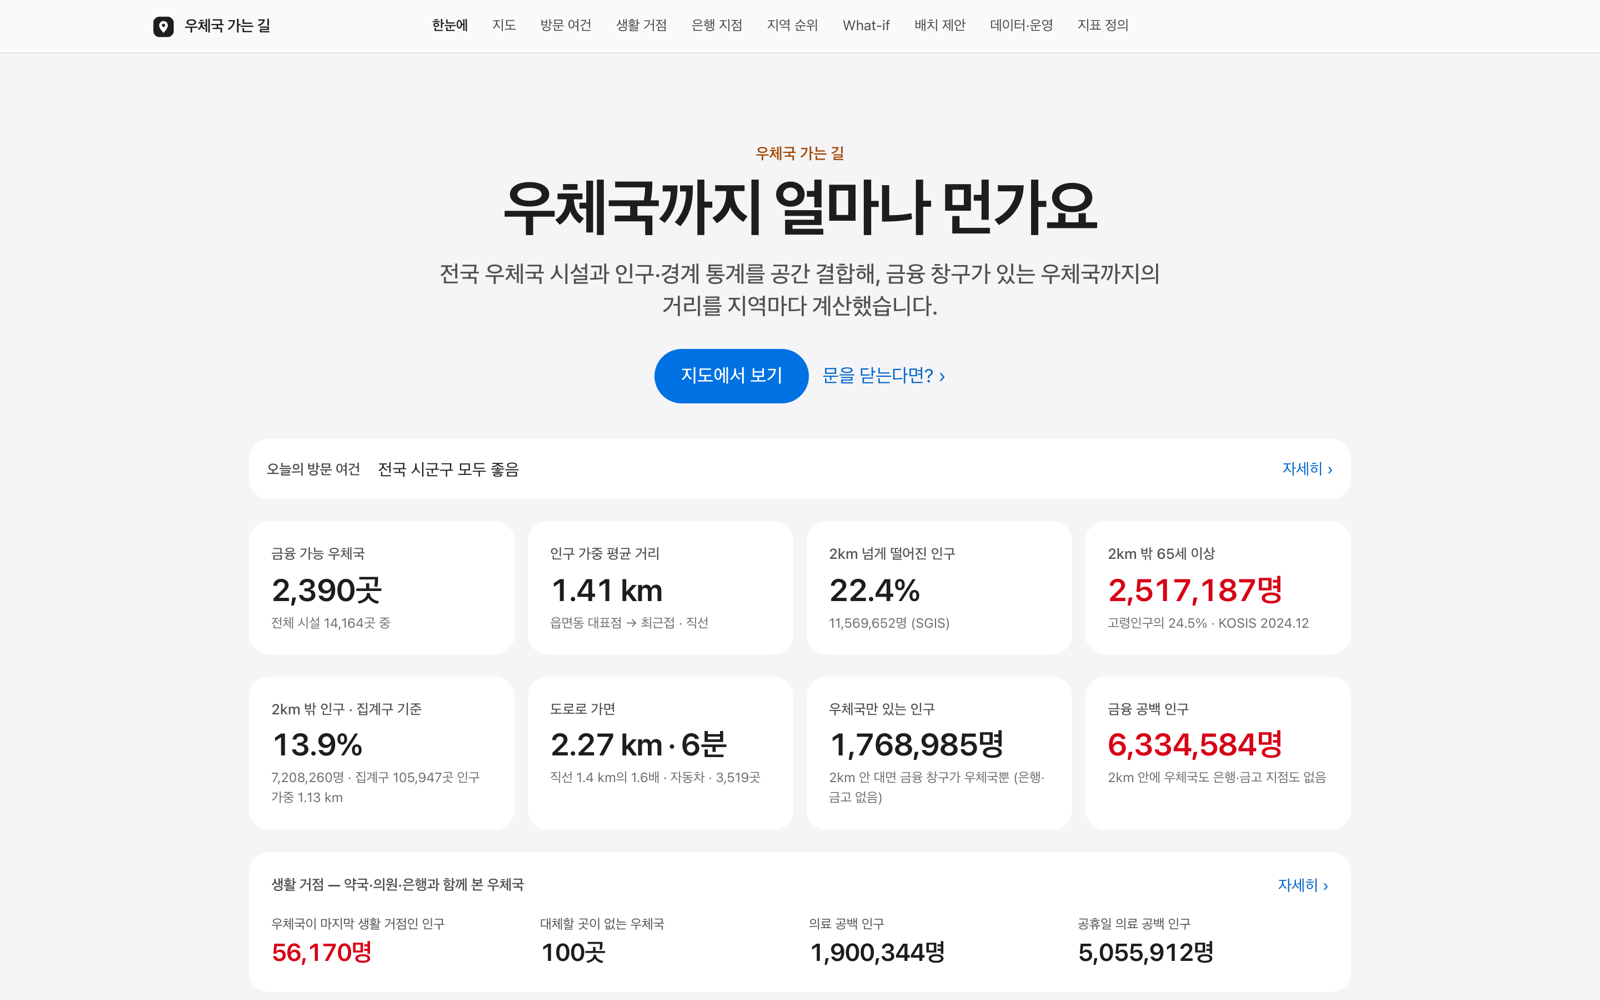
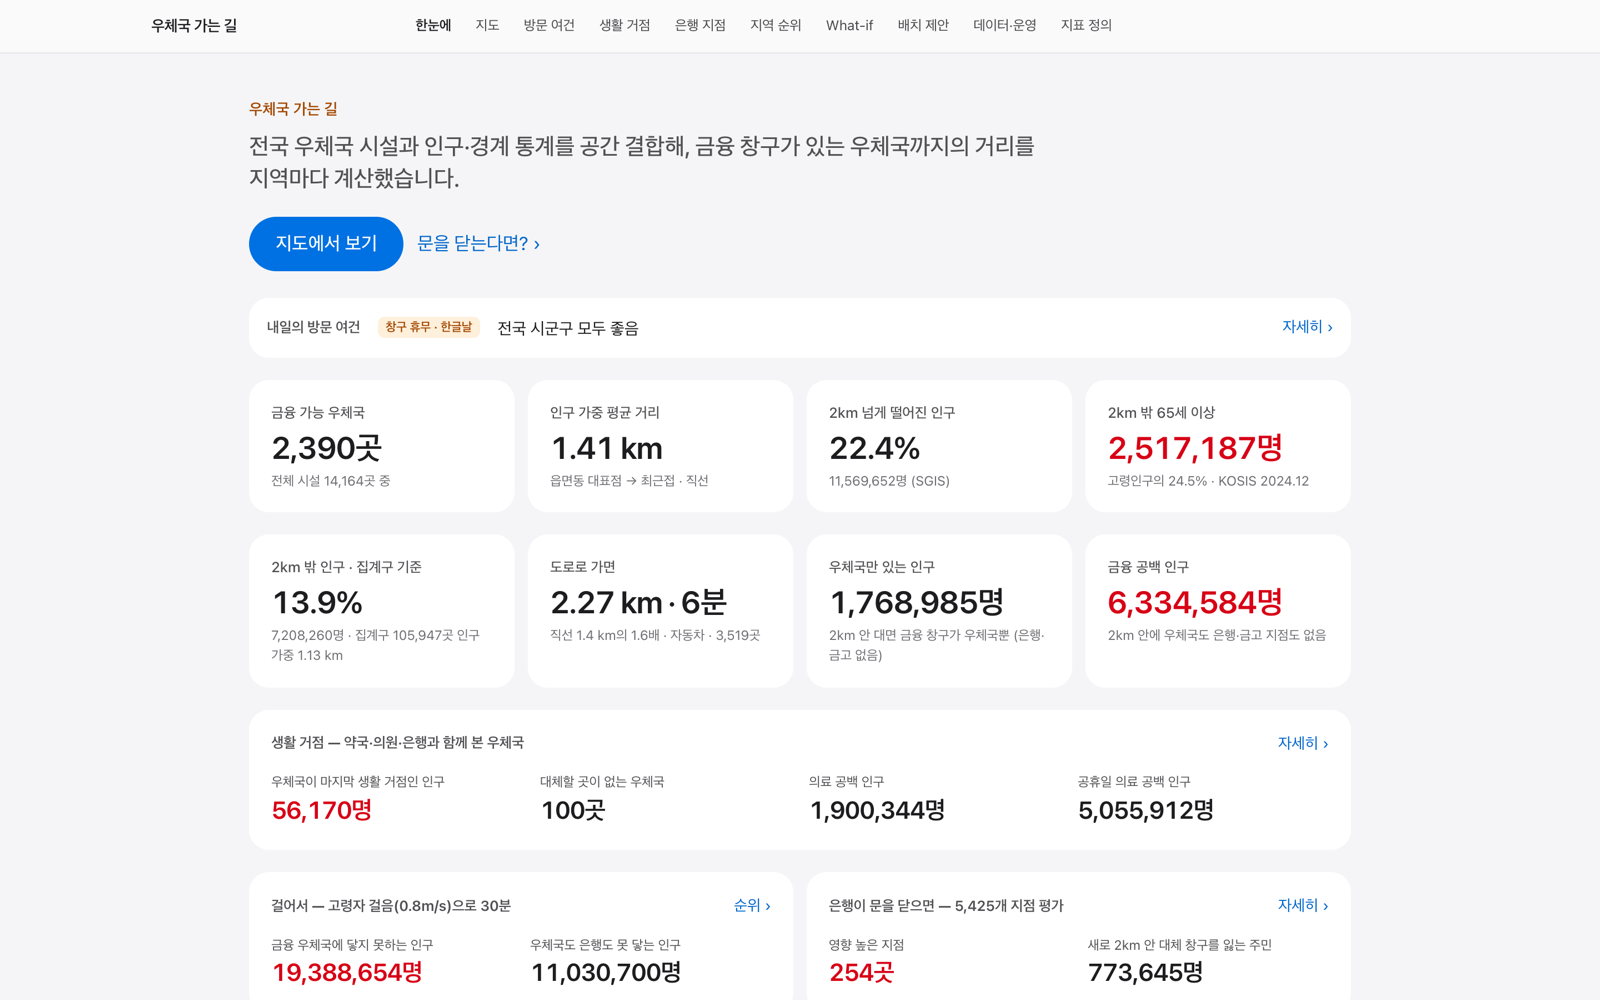
fix(web): 머리글 로고·큰 제목 문장 없애고 화면 머리 왼쪽 정렬
- 머리글의 '우체국 가는 길' 옆 이미지 제거(모바일에서도 글자로 표시)
- 모든 메뉴의 큰 제목 문장 제거, 메뉴 이름은 화면 낭독기·검색용 h1(sr-only)으로만 남김
- 설명 글·버튼을 왼쪽 정렬, 본문 틀과 같은 폭이라 왼쪽 끝이 카드와 맞음(은행 지점·What-if·배치 제안은 넓은 틀)
- README 한눈에 사진 다시 찍음

diff --git a/web/components/Layout.tsx b/web/components/Layout.tsx
@@ -57,9 +57,8 @@ export default function Layout({ children, full, title }: { children: ReactNode;
       <a href="#main" className="skip-link">본문으로 건너뛰기</a>
       <header className="gnav">
         <div className="mx-auto flex h-full max-w-wide items-center gap-2 px-4">
-          <Link href="/overview" className="mr-2 flex shrink-0 items-center gap-2 text-ink no-underline" aria-label="우체국 가는 길 홈">
-            <Logo />
-            <span className="hidden text-[14px] font-semibold tracking-tight sm:inline">우체국 가는 길</span>
+          <Link href="/overview" className="mr-2 shrink-0 text-[14px] font-semibold tracking-tight text-ink no-underline" aria-label="우체국 가는 길 홈">
+            우체국 가는 길
           </Link>
           <nav className="-mx-1 flex flex-1 items-center justify-start gap-0.5 overflow-x-auto md:justify-center">
             {NAV.map((n) => {
@@ -98,23 +97,17 @@ export default function Layout({ children, full, title }: { children: ReactNode;
   );
 }
 
-function Logo() {
+// 화면 머리 — 왼쪽 정렬, 본문 틀과 같은 폭(wide = 넓은 화면)이라 왼쪽 끝이 아래 카드와 맞음.
+// 큰 제목 문장은 두지 않고, 메뉴 이름을 화면 낭독기·검색용 제목(h1)으로만 남김 (페이지마다 h1 하나 — 접근성)
+export function Hero({ eyebrow, title, sub, children, wide }: {
+  eyebrow?: string; title: string; sub?: ReactNode; children?: ReactNode; wide?: boolean;
+}) {
   return (
-    <svg width="22" height="22" viewBox="0 0 24 24" aria-hidden="true">
-      <rect x="2" y="2" width="20" height="20" rx="6" fill="#1d1d1f" />
-      <path d="M12 6.2a4.3 4.3 0 0 0-4.3 4.3c0 3.2 4.3 7.3 4.3 7.3s4.3-4.1 4.3-7.3A4.3 4.3 0 0 0 12 6.2Z" fill="#fff" />
-      <circle cx="12" cy="10.5" r="1.6" fill="#1d1d1f" />
-    </svg>
-  );
-}
-
-export function Hero({ eyebrow, title, sub, children }: { eyebrow?: string; title: ReactNode; sub?: ReactNode; children?: ReactNode }) {
-  return (
-    <section className="rise mx-auto max-w-page px-4 pb-8 pt-14 text-center md:pt-20">
+    <section className={`rise mx-auto px-4 pb-6 pt-8 md:pt-10 ${wide ? "max-w-wide" : "max-w-page"}`}>
+      <h1 className="sr-only">{title}</h1>
       {eyebrow && <p className="eyebrow mb-2">{eyebrow}</p>}
-      <h1 className="hero-title">{title}</h1>
-      {sub && <p className="hero-sub mx-auto mt-4 max-w-2xl">{sub}</p>}
-      {children && <div className="mt-6 flex flex-wrap items-center justify-center gap-3">{children}</div>}
+      {sub && <p className="hero-sub max-w-3xl">{sub}</p>}
+      {children && <div className="mt-5 flex flex-wrap items-center gap-3">{children}</div>}
     </section>
   );
 }

diff --git a/web/pages/plan.tsx b/web/pages/plan.tsx
@@ -82,7 +82,7 @@ export default function PlanPage() {
   return (
     <Layout title="배치 제안">
       <MapWarmup />
-      <Hero title="어디를, 어떻게" sub="범위를 고르면 ‘닫아도 영향이 가장 작은 우체국 조합’과 ‘새로 열면 효과가 가장 큰 자리’를 계산합니다. 탐욕법 근사이며 결정 근거가 아닌 검토용입니다." />
+      <Hero wide title="배치 제안" sub="범위를 고르면 ‘닫아도 영향이 가장 작은 우체국 조합’과 ‘새로 열면 효과가 가장 큰 자리’를 계산합니다. 탐욕법 근사이며 결정 근거가 아닌 검토용입니다." />
       <div className="mx-auto grid max-w-wide grid-cols-1 gap-5 px-4 pb-20 lg:grid-cols-[360px_minmax(0,1fr)]">
         <div className="space-y-5">
           <Card title="조건">

diff --git a/web/pages/whatif.tsx b/web/pages/whatif.tsx
@@ -83,7 +83,7 @@ export default function WhatIfPage() {
 
   return (
     <Layout title="What-if">
-      <Hero title="문을 닫는다면" sub="우체국 1~5곳이 문을 닫는다고 하면, 그 우체국이 가장 가까웠던 지역의 거리가 얼마나 늘어나는지 계산합니다." />
+      <Hero wide title="What-if — 우체국이 문을 닫는다면" sub="우체국 1~5곳이 문을 닫는다고 하면, 그 우체국이 가장 가까웠던 지역의 거리가 얼마나 늘어나는지 계산합니다." />
       <div className="mx-auto grid max-w-wide grid-cols-1 gap-5 px-4 pb-20 lg:grid-cols-[360px_minmax(0,1fr)]">
         <div className="space-y-5">
           <Card title="우체국 고르기">

diff --git a/web/pages/banks.tsx b/web/pages/banks.tsx
@@ -86,7 +86,7 @@ export default function BanksPage() {
   return (
     <Layout title="은행 지점">
       <MapWarmup />
-      <Hero eyebrow="은행 지점 영향평가" title={<>은행이<br className="hidden sm:block" /> 문을 닫으면</>}
+      <Hero wide eyebrow="은행 지점 영향평가" title="은행 지점"
         sub="은행 지점마다 그 지점이 가장 가까운 주민을 찾고, 문을 닫으면 다른 은행이나 은행 업무를 하는 우체국까지 얼마나 멀어지는지 계산합니다. 2026년 개정된 은행 점포폐쇄 공동절차를 참고한 분석용 평가입니다." />
 
       <div className="mx-auto max-w-wide space-y-5 px-4 pb-20">

diff --git a/web/pages/report/index.tsx b/web/pages/report/index.tsx
@@ -12,7 +12,7 @@ export default function ReportIndex() {
   }, []);
   return (
     <Layout title="지역 보고서">
-      <Hero eyebrow="지역 보고서" title="시군구 한 곳을 한 장으로"
+      <Hero eyebrow="지역 보고서" title="지역 보고서"
         sub="우체국 접근성·걸어서 가는 거리·지켜야 할 우체국·은행 지점이 닫힐 때의 영향·읍면동 비교를 한 장에 모읍니다. 인쇄하거나 PDF 로 저장해 회의 자료로 쓸 수 있습니다." />
       <div className="mx-auto max-w-page space-y-5 px-4 pb-20">
         {!regions ? <div className="card p-6"><TableSkeleton rows={8} /></div> : regions.map((s) => (

diff --git a/web/pages/overview.tsx b/web/pages/overview.tsx
@@ -19,7 +19,7 @@ export default function OverviewPage() {
 
   return (
     <Layout title="한눈에">
-      <Hero eyebrow="우체국 가는 길" title={<>우체국까지<br className="sm:hidden" /> 얼마나 먼가요</>}
+      <Hero eyebrow="우체국 가는 길" title="한눈에"
         sub="전국 우체국 시설과 인구·경계 통계를 공간 결합해, 금융 창구가 있는 우체국까지의 거리를 지역마다 계산했습니다.">
         <Link href="/" className="btn btn-lg no-underline">지도에서 보기</Link>
         <Link href="/whatif" className="link text-[17px]">문을 닫는다면? ›</Link>

diff --git a/web/pages/today.tsx b/web/pages/today.tsx
@@ -67,7 +67,7 @@ export default function TodayPage() {
   return (
     <Layout title="방문 여건">
       <MapWarmup />
-      <Hero eyebrow="오늘의 방문 여건" title={<>오늘, 우체국 가는 길은<br className="hidden sm:block" /> 괜찮을까요</>}
+      <Hero eyebrow="오늘의 방문 여건" title="방문 여건"
         sub="기상청 단기예보와 에어코리아 미세먼지 예보로 시군구마다 창구 운영 시간(09~18시)의 방문 부담을 판정하고, 우체국에서 멀리 사는 고령인구와 함께 보여 줍니다." />
 
       <div className="mx-auto max-w-page space-y-5 px-4 pb-20">

diff --git a/web/pages/hubs.tsx b/web/pages/hubs.tsx
@@ -42,7 +42,7 @@ export default function HubsPage() {
 
   return (
     <Layout title="생활 거점">
-      <Hero eyebrow="생활 거점" title={<>우체국이 마지막으로<br className="hidden sm:block" /> 남은 동네</>}
+      <Hero eyebrow="생활 거점" title="생활 거점"
         sub="약국·의원·은행 지점이 2km 안에 없는 곳에서 우체국은 유일한 생활 거점입니다. 집계구(평균 약 500명)마다 판정해, 닫히면 대신할 곳이 없는 우체국을 찾습니다." />
 
       <div className="mx-auto max-w-page space-y-5 px-4 pb-20">

diff --git a/docs/CHANGELOG.md b/docs/CHANGELOG.md
@@ -4,7 +4,7 @@
 
 - 데이터·운영 오류 로그에 **새로 고침**과 **지우기**(한 줄 · 보이는 항목 모두). 지우기는 관리 토큰이 필요하고, 삭제가 아니라
   확인 표시(`ops.error_ack`, V21)라 작업·수집·품질 이력은 그대로 남습니다. API 역할은 INSERT 만([ADR-013](adr/ADR-013-api-security.md)).
-- 화면 제목을 간결하게 — 한눈에 '우체국까지 얼마나 먼가요', 모든 큰 제목 끝 마침표 제거.
+- 화면 머리 — 큰 제목 문장과 머리글 로고를 없애고, 설명 글을 왼쪽 정렬(아래 본문 카드와 같은 왼쪽 끝). 메뉴 이름은 화면 낭독기·검색용 제목(h1)으로만 남김.
 - 줄바꿈 — 한국어는 어절 단위(`word-break: keep-all`), 표의 수·단위는 한 줄, 요약 카드 숫자는 카드 폭에 맞는 크기(container query).
   375·768px 에서 숫자가 꺾이거나 낱글자가 다음 줄로 가던 111곳 → 0곳(점검 스크립트로 확인), 가로 넘침 0 유지.
 - 테스트 Python 189개 · 퍼징 654건.
